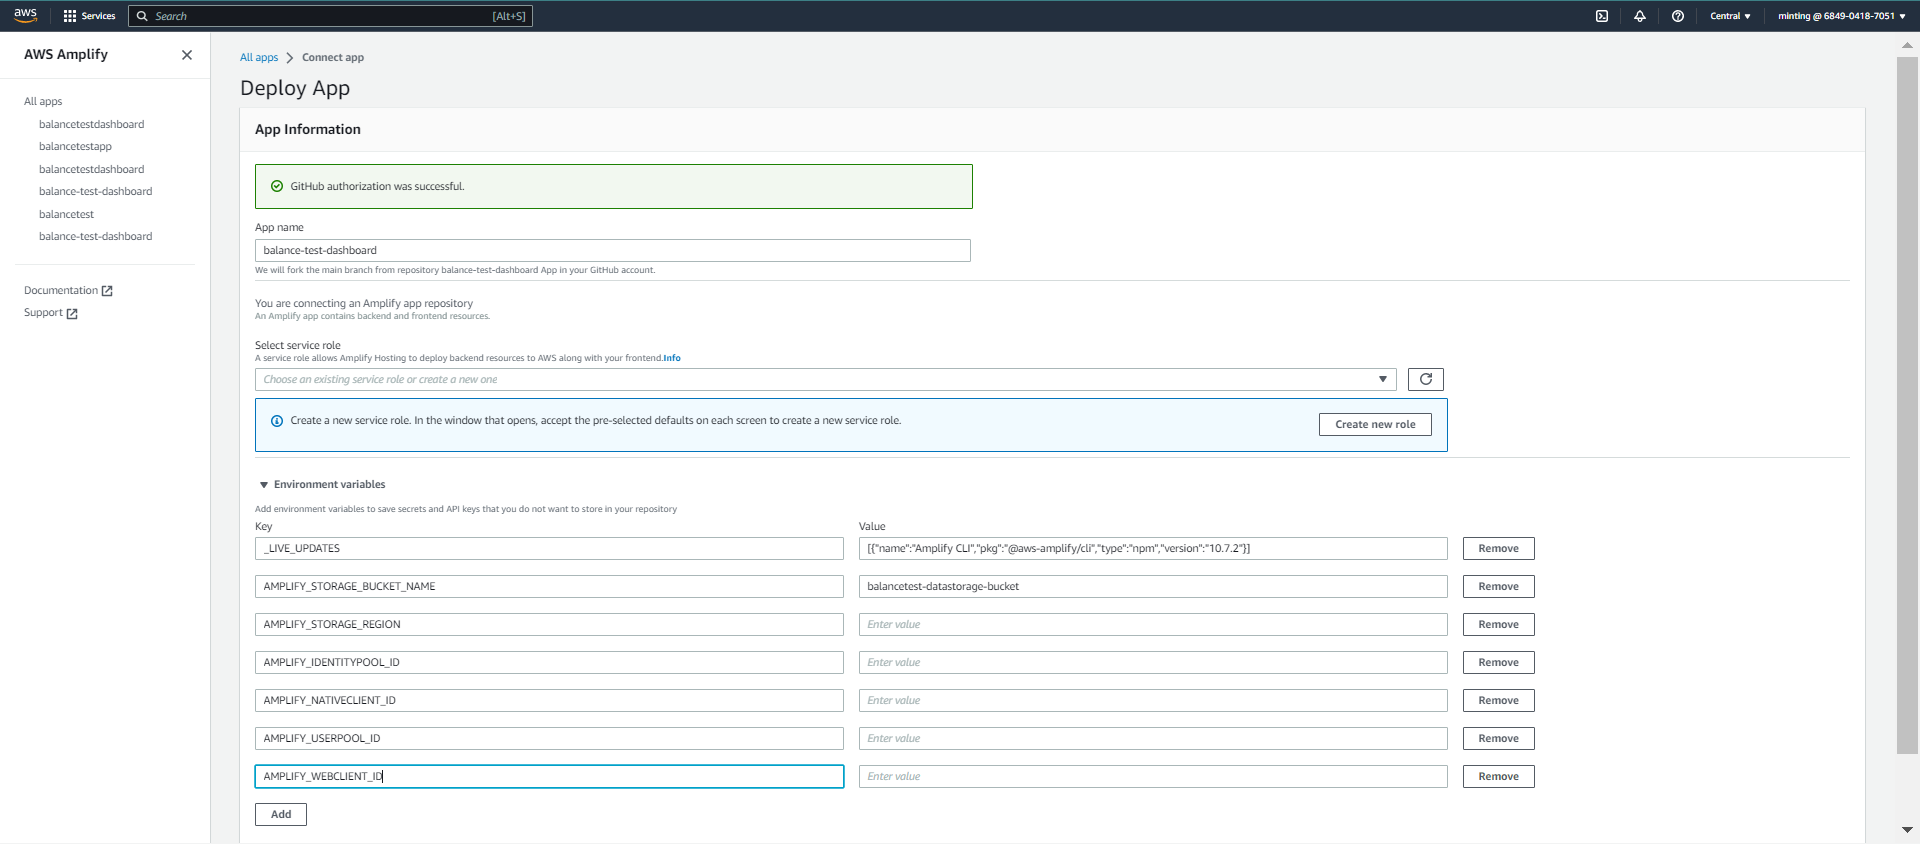
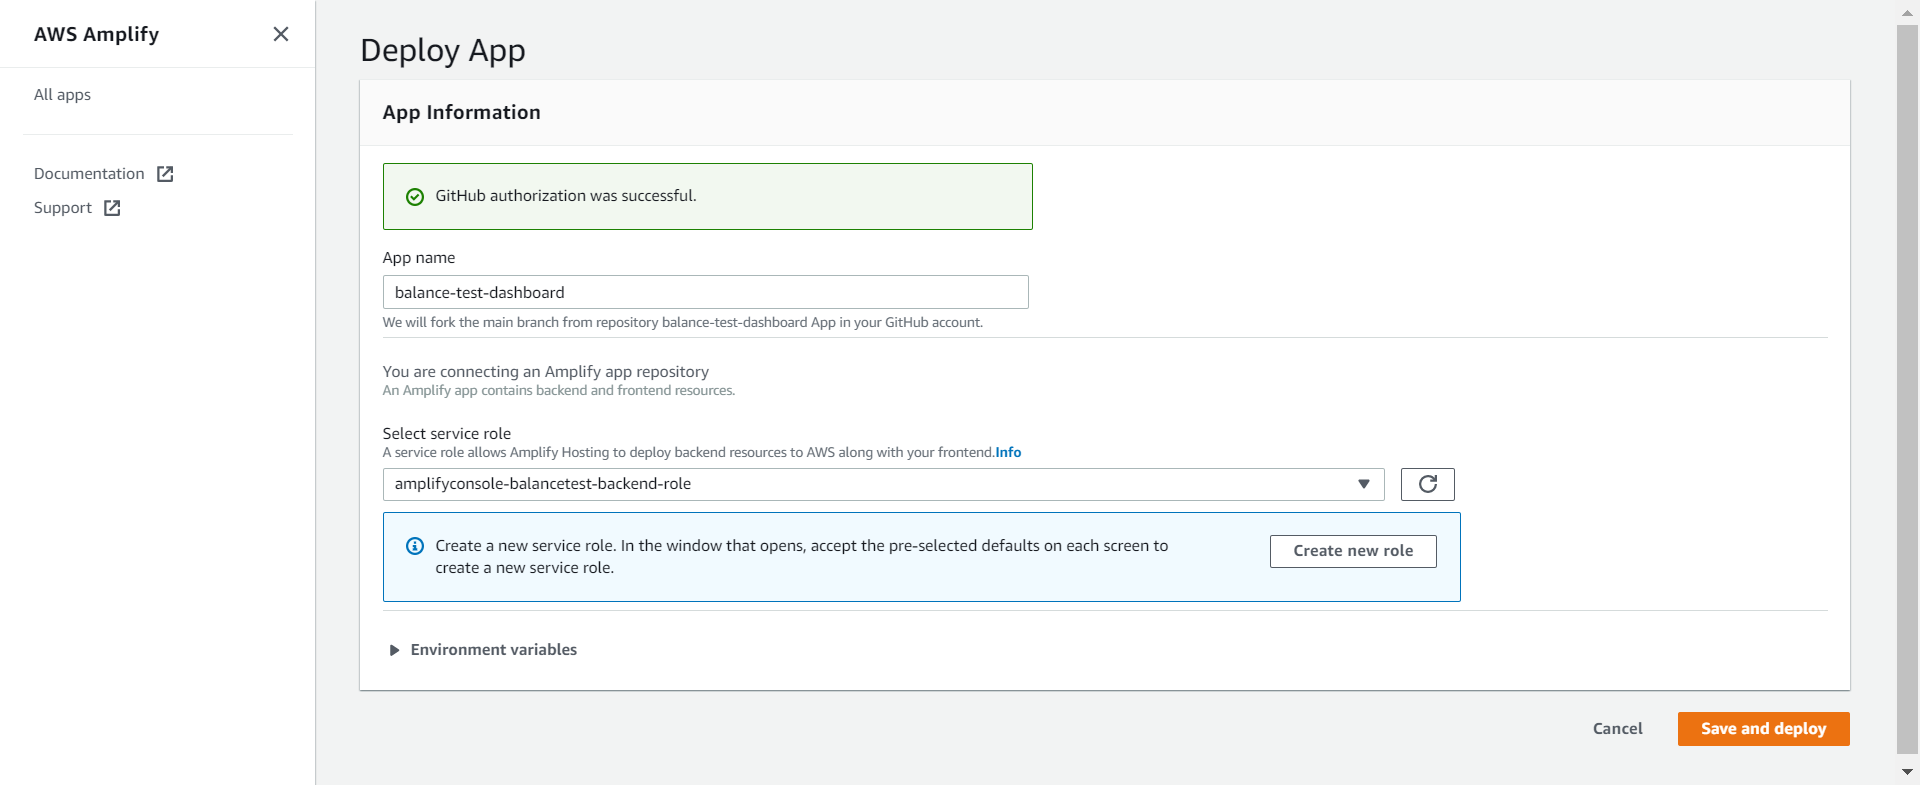
Touchups

diff --git a/frontend/src/pages/TestDetails.js b/frontend/src/pages/TestDetails.js
@@ -62,17 +62,8 @@ export function TestDetails() {
     let reslambdaauth = await API.graphql({
       query: getTestEventById,
       variables: { test_event_id: test_event_id, patient_id: patient_id },
-      // authMode: GRAPHQL_AUTH_MODE.AWS_LAMBDA,
       authToken: `${idtoken}`,
-      // headers: {
-      //   Authorization: `prefix-${idtoken}`,
-      // },
     });
-    // console.log("patientparams", {
-    //   query: getPatientById,
-    //   variables: { patient_id: patient_id },
-    //   authToken: idtoken,
-    // });
     let resPatient = await API.graphql({
       query: getPatientById,
       variables: { patient_id: patient_id },
@@ -113,8 +104,6 @@ export function TestDetails() {
         patient_id: patient_id,
         measurement: measurement,
       },
-      // authMode: GRAPHQL_AUTH_MODE.AWS_LAMBDA,
-      // authToken: `1`,
 
       authToken: `${idtoken}`,
     });
@@ -132,20 +121,6 @@ export function TestDetails() {
   useEffect(() => {
     fetchData();
   }, []);
-  let isFirstRender = true;
-  // useEffect(() => {
-  //   // console.log("121");
-  //   // if (isFirstRender) {
-  //   //   console.log("is first render");
-  //   //   fetchData();
-  //   //   isFirstRender = false;
-  //   //   return;
-  //   // } else {
-  //   if (testEvent) {
-  //     fetchMeasurement();
-  //   }
-  //   // }
-  // }, [measurementSelected]);
 
   const handleChange = (event) => {
     setMeasurementSelected(event.target.value);
@@ -159,22 +134,9 @@ export function TestDetails() {
     let idtoken = sesh.idToken.jwtToken;
 
     setDownloading(true);
-    // console.log("patientid", patient_id);
-    // console.log("patientname", patientName);
-    // let downloadVariable = {
-    //   test_event_id: test_event_id,
-    //   test_type: "sit-to-stand",
-    //   year: dayjs(testEvent.start_time).year(),
-    //   month: dayjs(testEvent.start_time).month() + 1,
-    //   day: dayjs(testEvent.start_time).date(),
-    //   patient_id: patient_id,
-    //   patient_name: patientName,
-    // };
-    // console.log("download variable", downloadVariable);
     try {
       let resdownload = await API.graphql({
         query: downloadTestEventDetails,
-        // variables: downloadVariable,
         variables: {
           test_event_id: test_event_id,
           test_type: "sit-to-stand",
@@ -242,10 +204,7 @@ export function TestDetails() {
       </Grid>
       <Grid item container justifyContent="center">
         <Grid item>
-          <Table
-            //    sx={{ maxWidth: "100%" }}
-            aria-label="simple table"
-          >
+          <Table aria-label="simple table">
             <TableHead>
               <TableRow>
                 <TableCell align="left">Movement</TableCell>
@@ -257,7 +216,6 @@ export function TestDetails() {
             </TableHead>
             <TableBody>
               <TableRow
-                //   key={row.name}
                 sx={{ "&:last-child td, &:last-child th": { border: 0 } }}
               >
                 {/* todo: replace w var */}
@@ -301,13 +259,7 @@ export function TestDetails() {
           </Table>
         </Grid>
       </Grid>
-      <Grid
-        item
-        // container
-        // spacing={5}
-        // direction="column"
-        // justifyContent="center"
-      >
+      <Grid item>
         <FormControl variant="standard" sx={{ m: 1, minWidth: 350 }}>
           <InputLabel id="demo-simple-select-standard-label">
             Select a Measurement to View Raw Data

diff --git a/frontend/src/App.js b/frontend/src/App.js
@@ -3,7 +3,7 @@ import PatientPage from "./components/patient/PatientPage";
 import EventsTable from "./components/patient/EventsTable";
 import "./App.css";
 import ScoreChart, { RangeChart } from "./components/patient/Charts";
-import Execute from "./components/mockData/populateDBScript";
+// import Execute from "./components/mockData/populateDBScript";
 import { Container } from "@mui/system";
 import Patient from "./pages/patient";
 import Navbar from "./components/nav/Navbar";
@@ -84,7 +84,7 @@ function App() {
                   element={<TestDetails />}
                   exact
                 />
-                <Route path="executeApi" element={<Execute />} />
+                {/* <Route path="executeApi" element={<Execute />} /> */}
 
                 {/* Using path="*"" means "match anything", so this route
                     acts like a catch-all for URLs that we don't have explicit

diff --git a/frontend/src/components/patient_list/PatientsTable.js b/frontend/src/components/patient_list/PatientsTable.js
@@ -502,15 +502,6 @@ export function PatientsTable() {
             movements_assigned: checkbox_obj,
           });
         });
-
-        // data.push({
-        //   patient_name: patientsInfo[p].name,
-        //   user_id: patientsInfo[p].patient_id,
-        //   assigned_test_num: res1.data.getPatientAssignedTests.length,
-        //   last_movement_tested: lastMovementAssigned,
-        //   last_test_score: lastScore,
-        //   movements_assigned: {}
-        // });
       }
       updatePatientDataRowsArr(data);
     } catch (err) {

diff --git a/frontend/src/components/patient/PatientPage.js b/frontend/src/components/patient/PatientPage.js
@@ -119,8 +119,12 @@ function PatientPage() {
       },
       authToken: idtoken,
     });
-    setMonthlyAvg(parseFloat(resMonthlyAvg.data.getScoreStatsOverTime));
-    setWeeklyAvg(parseFloat(resWeeklyAvg.data.getScoreStatsOverTime));
+    setMonthlyAvg(
+      Number(parseFloat(resMonthlyAvg.data.getScoreStatsOverTime).toFixed())
+    );
+    setWeeklyAvg(
+      Number(parseFloat(resWeeklyAvg.data.getScoreStatsOverTime)).toFixed()
+    );
     setChangeFromLastMonth(
       resLastMonthAvg.data.getScoreStatsOverTime == null
         ? null

diff --git a/docs/DeploymentGuide.md b/docs/DeploymentGuide.md
@@ -53,7 +53,7 @@ cd backend/cdk
 
 # Step 2: Install Dependencies
 
-**TODO: may not need this step**
+<!-- **TODO: may not need this step** -->
 
 The `backend` folder contains AWS CDK stacks and AWS Lambda function code that will manage the data stores and corresponding interactions with the dashboard.
 
@@ -85,7 +85,7 @@ In the `backend/cdk` directory, initialize the CDK stacks in the terminal (requi
 
 ```
 cdk synth --profile balance-test
-cdk bootstrap aws://YOUR_AWS_ACCOUNT_ID/ca-central-1 --profile balance-test
+cdk bootstrap aws://YOUR_AWS_ACCOUNT_ID/YOUR_AWS_REGION --profile balance-test
 ```
 
 If the cdk synth command gives you an error, run your console as administrator and execute the following command:
@@ -97,7 +97,7 @@ Set-ExecutionPolicy RemoteSigned
 TODO: verify the time for these 5 stacks
 
 Deploy the CDK stacks individually, you **must** deploy in the **following order**. The deployment will take about 50-60 minutes.
-When `prompted Do you wish to deploy these changes (y/n)?`, type `y` and enter.
+When `Do you wish to deploy these changes (y/n)?`, type `y` and enter.
 
 ```
 cdk deploy VPCStack --profile balance-test
@@ -106,7 +106,9 @@ cdk deploy VPCStack --profile balance-test
 ```
 cdk deploy CognitoStack --profile balance-test
 ```
-After deploying this, take a note of the output:
+After successfully deploying this stack, take a note of the output:
+![alt text](/docs/images/cognito_output.PNG)
+
 
 ```
 cdk deploy DatabaseStack --profile balance-test
@@ -120,9 +122,6 @@ cdk deploy DataWorkflowStack --profile balance-test
 cdk deploy AthenaGlueStack --profile balance-test
 ```
 
-TODO: troubleshooting.md
-
-If you run into any issues while deploying, refer to [Troubleshooting](#troubleshooting) for solutions.
 
 # Step 4: Amplify Deployment
 
@@ -135,28 +134,41 @@ cd ../..
 Before deploying the Amplify Website, we need to create the IAM Role that associate the policies needed to implement this solution. Run the following command:
 
 ```
-aws cloudformation deploy --template-file cfn-amplifyRole.yaml --stack-name amplifyconsole-balancetest-backend-role --capabilities CAPABILITY_NAMED_IAM --profile balance-test
+aws cloudformation deploy --template-file cfn-amplifyRole.yml --stack-name amplifyconsole-balancetest-backend-role --capabilities CAPABILITY_NAMED_IAM --profile balance-test
 ```
 
 The command creates the role name **amplifyconsole-balancetest-backend-role** that will be used on the next step.
 
-Ensure you are logged into your AWS account and click the Deploy To Amplify Console button to begin the website deployment.
+Ensure you are logged into your AWS account and are in the correct region. Click the Deploy To Amplify Console button to begin the website deployment.
 
 [![amplifybutton](https://oneclick.amplifyapp.com/button.svg)](https://console.aws.amazon.com/amplify/home#/deploy?repo=https://github.com/UBC-CIC/balance-test-dashboard/tree/main)
 
 The following page will appear after clicking the button. Click the connect to Github button and connect to your Github account.
 
-<!-- ![alt text](/docs/images/deployment_guide/amplify_1.PNG) -->
+![alt text](/docs/images/amplify_home.PNG)
 
-After connecting your Github account this window should appear. Click save and deploy to begin the deployment.
+After connecting your Github account this window should appear. 
 
-<!-- ![alt text](/docs/images/deployment_guide/amplify_2.PNG) -->
+![alt text](/docs/images/amplify_settings.PNG)
 
-Next, click general in the sidebar and click edit in the top right corner. Open the Service Role dropdown menu and select the **amplifyconsole-balancetest-backend-role** that we created. Finish by clicking save. If you attach the role too slowly, the build will fail the first time. If this happens, ensure the role has been attached, click main, then click redeploy this version.
+Select the **amplifyconsole-balancetest-backend-role** we made previously for the deployment role. Expand the "Environment variables" section and edit the environment variables to the following settings, replace the values starting with `//` with the output that you saved from previous:
 
-<!-- ![alt text](/docs/images/deployment_guide/amplify_6.PNG) -->
+```
+_LIVE_UPDATES: [{"name":"Amplify CLI","pkg":"@aws-amplify/cli","type":"npm","version":"10.7.2"}]
+AMPLIFY_STORAGE_BUCKET_NAME: balancetest-datastorage-bucket
+AMPLIFY_STORAGE_REGION: // region
+AMPLIFY_USERPOOL_ID: // CognitoStack.UserPoolId
+AMPLIFY_WEBCLIENT_ID: // CognitoStack.UserPoolClientId
+AMPLIFY_NATIVECLIENT_ID: // CognitoStack.UserPoolClientId
+AMPLIFY_IDENTITYPOOL_ID: // / CognitoStack.IdentityPoolId
 
-The deployment will take a few minutes. Wait until the status of Verify is green.
+```
+![alt text](/docs/images/cognito_output.PNG)
+![alt text](/docs/images/amplify_env.PNG)
+
+
+
+Then, click the orange button "save and deploy". The deployment will take a few minutes. Wait until the status of Verify is green.
 
 <!-- ![alt text](/docs/images/deployment_guide/amplify_3.PNG) -->
 
